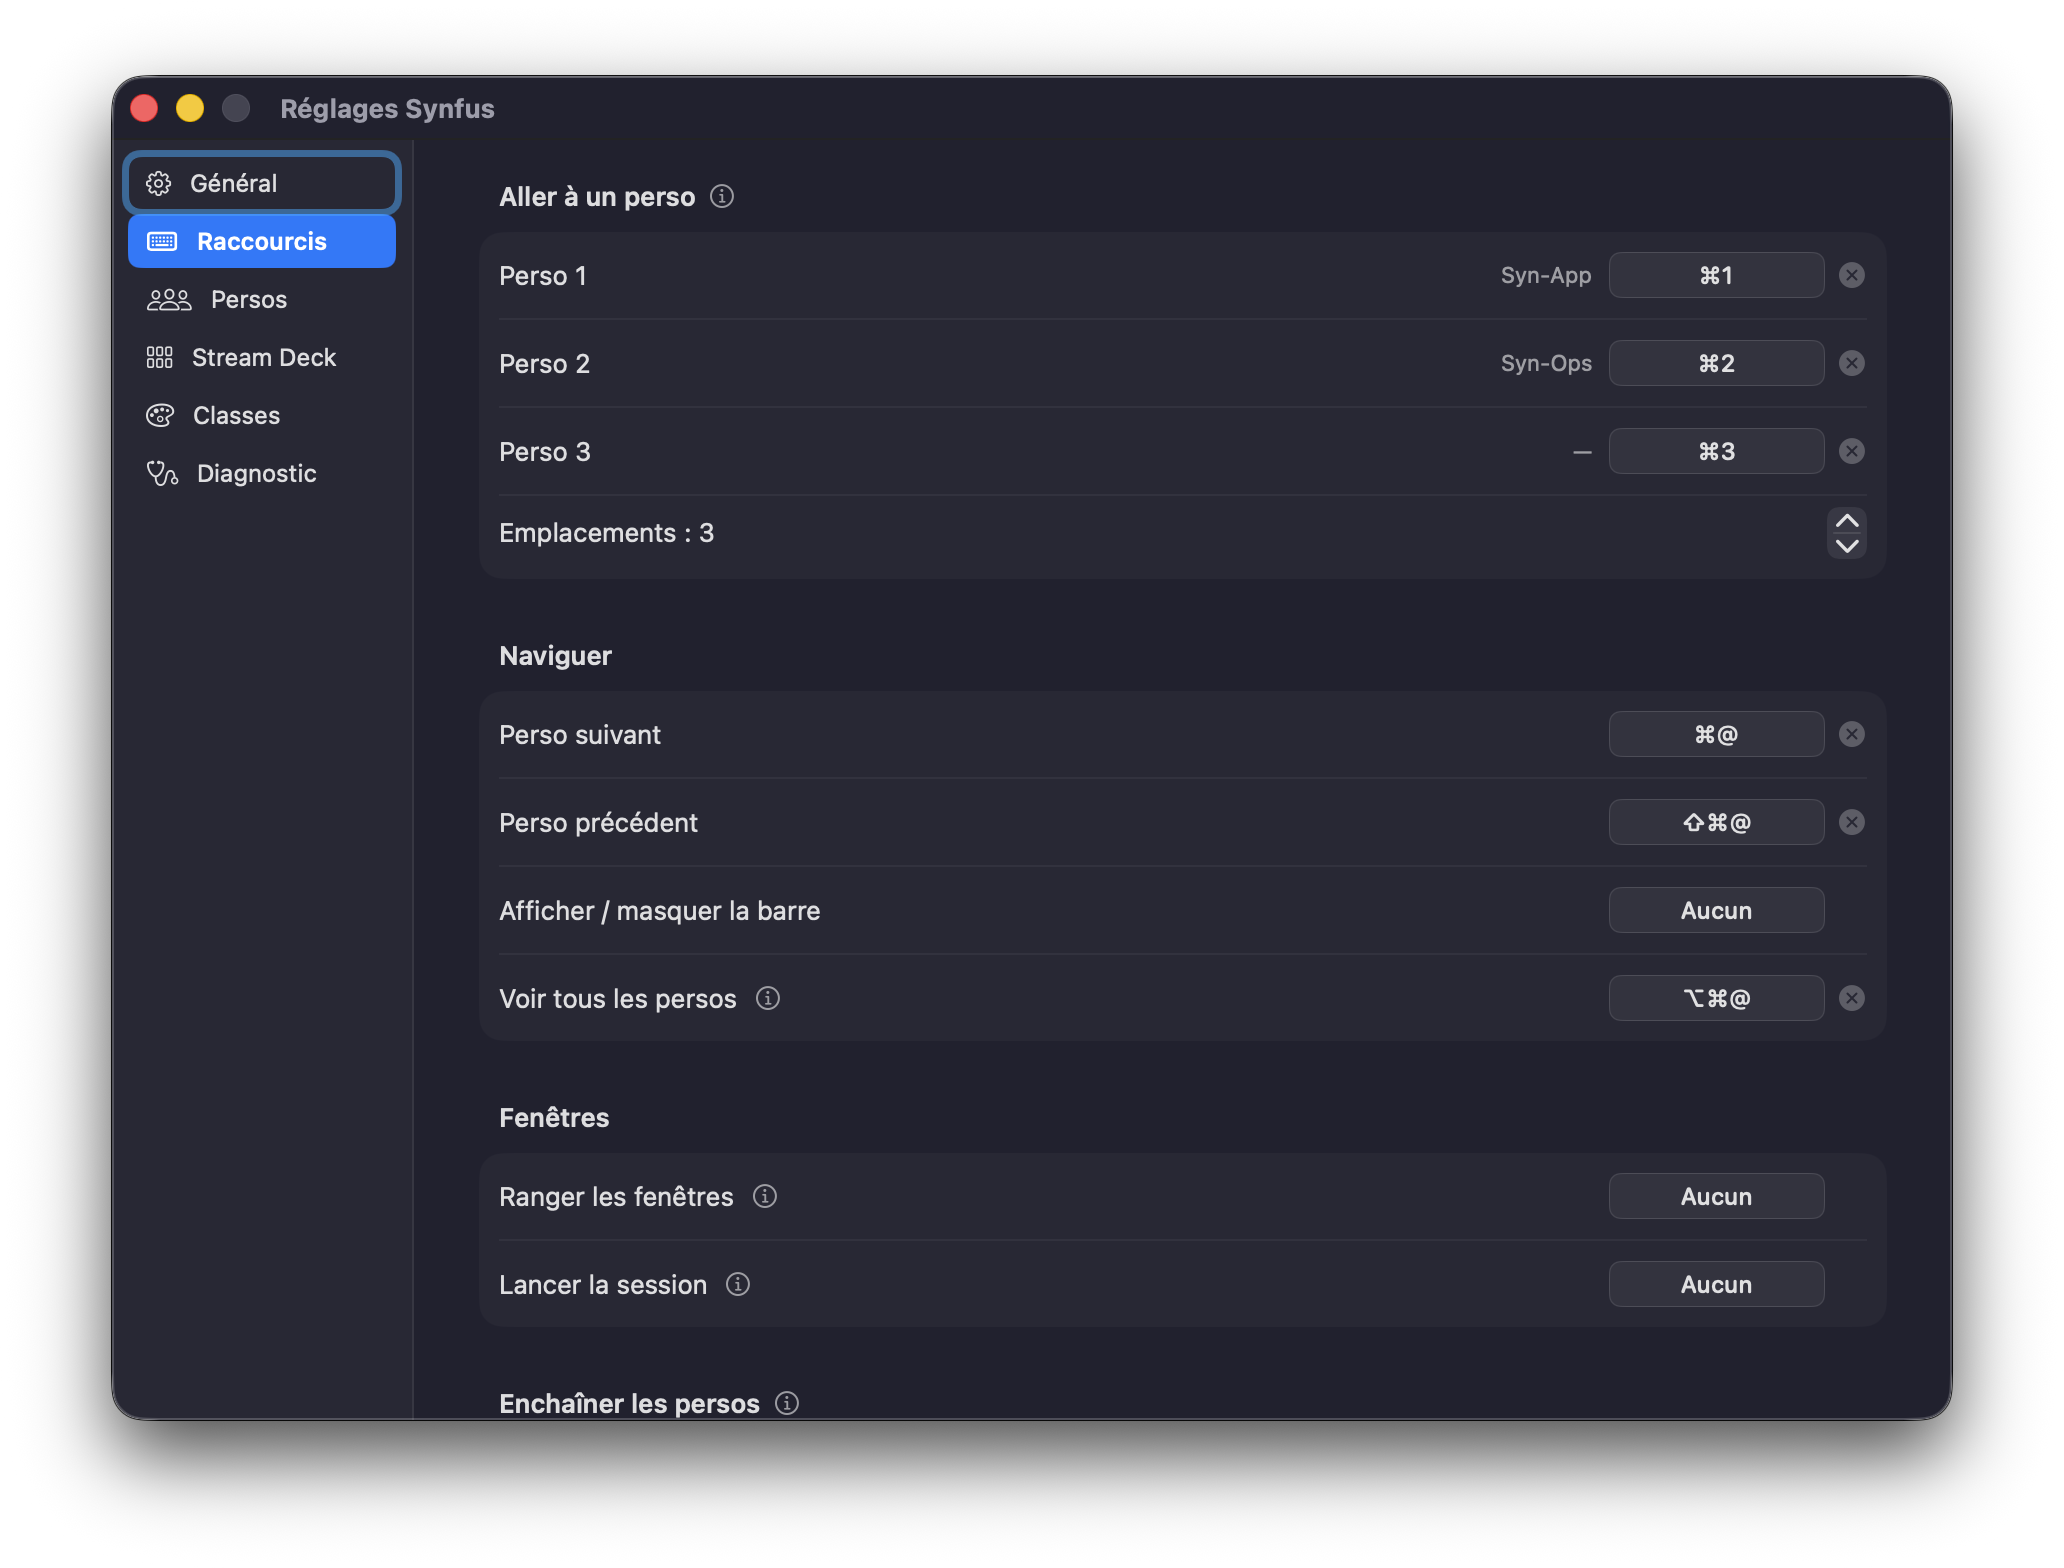
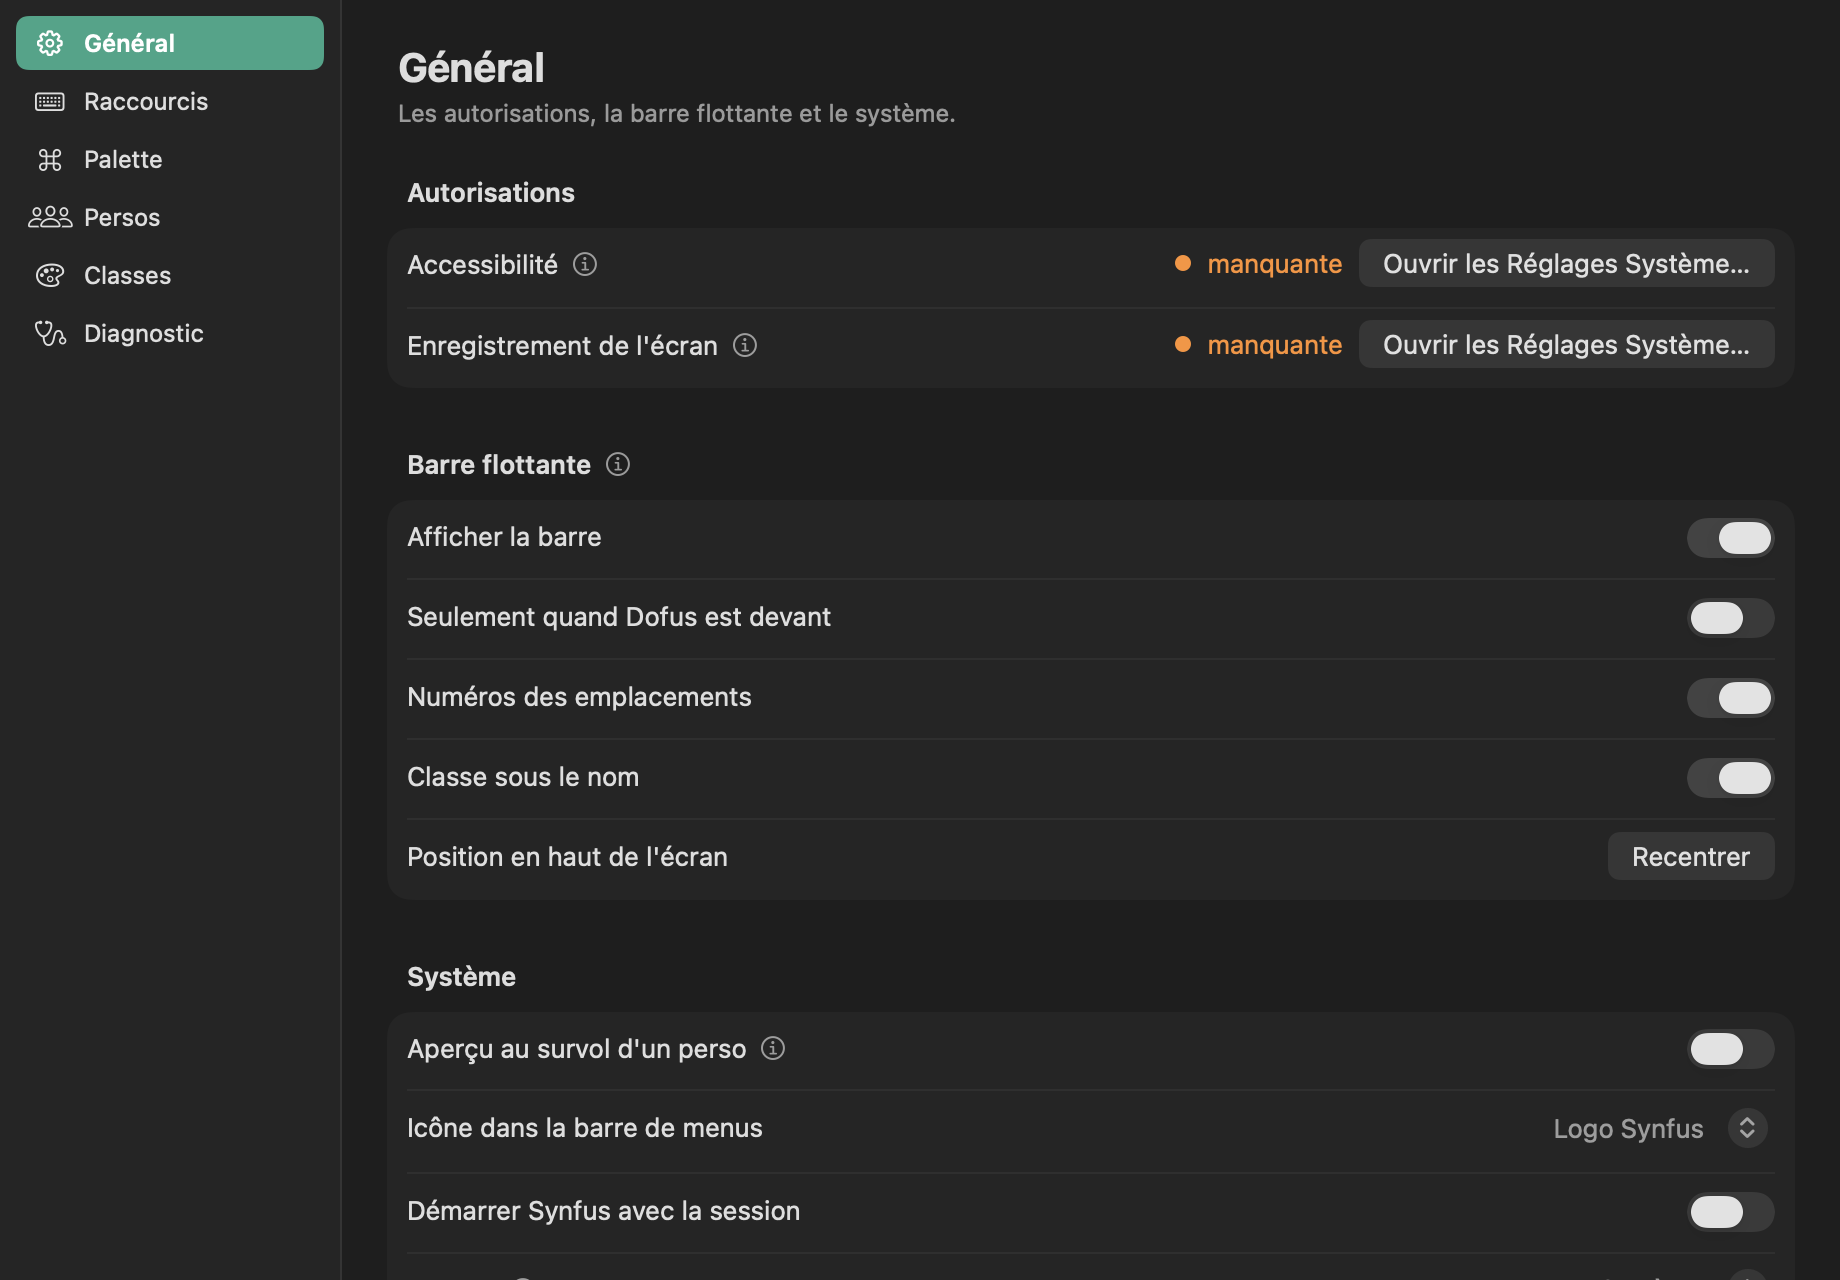
docs: 0.10.0 — palette, lieux, réglages refaits ; captures et README
Notes de version de 0.10.0 dans CHANGELOG.md, illustrées par des
captures rendues hors écran (CapturesTests → docs/screenshots), sans
aucun visuel du jeu. README : la palette, les zaaps, la chasse, ⇧⌘:
pour l'invitation, et le seul accès réseau (l'API de DofusDB).

diff --git a/Tests/SynfusTests/CapturesTests.swift b/Tests/SynfusTests/CapturesTests.swift
@@ -5,7 +5,8 @@ import Testing
 
 /// Les captures de la documentation et des notes de version : les vues de
 /// Synfus rendues hors écran, sur des données d'exemple — jamais un visuel du
-/// jeu. Ignoré sans `SYNFUS_CAPTURES=<dossier>`.
+/// jeu. Ignoré sans `SYNFUS_CAPTURES=<dossier>` ; pour `docs/screenshots` :
+/// `SYNFUS_CAPTURES=$PWD/docs/screenshots sh test.sh CapturesTests`.
 @MainActor
 struct CapturesTests {
     nonisolated private static let dossier = ProcessInfo.processInfo.environment["SYNFUS_CAPTURES"]
@@ -33,8 +34,7 @@ struct CapturesTests {
         let dossier = URL(fileURLWithPath: try #require(Self.dossier), isDirectory: true)
         try FileManager.default.createDirectory(at: dossier, withIntermediateDirectories: true)
         for (nom, requete) in [("palette-zaaps", ""), ("palette-travel", "/travel banque bonta"),
-                               ("palette-fm", "/travel fm"), ("palette-commandes", "/"),
-                               ("palette-variables", "%"), ("palette-tout", "recru")] {
+                               ("palette-commandes", "/")] {
             let modele = PaletteModele(contexte: contexte(), requete: requete)
             let vue = PaletteVue(modele: modele)
                 .padding(24)
@@ -48,11 +48,11 @@ struct CapturesTests {
     func reglages() throws {
         let dossier = URL(fileURLWithPath: try #require(Self.dossier), isDirectory: true)
         try FileManager.default.createDirectory(at: dossier, withIntermediateDirectories: true)
-        for section in SettingsSection.allCases {
+        for (nom, section) in [("reglages", SettingsSection.general), ("reglages-palette", .palette)] {
             let vue = SettingsView(section: section)
                 .background(Color(nsColor: .windowBackgroundColor))
                 .environment(\.colorScheme, .dark)
-            try ecrire(vue, vers: dossier.appending(path: "reglages-\(section.rawValue).png"))
+            try ecrire(vue, vers: dossier.appending(path: nom + ".png"))
         }
     }
 

diff --git a/README.md b/README.md
@@ -12,6 +12,26 @@ connectés et permet de passer de l'un à l'autre, d'un clic ou au clavier.
 
 ## Ce que ça fait
 
+- **La palette (⌘:)** : un champ de recherche au-dessus du jeu, qui prend le
+  clavier sans passer devant Dofus. Tu tapes, Entrée copie, ⌘V colle dans le
+  tchat.
+  - `/zaap bonta` : le zaap par son nom, sa zone ou ton étiquette (« Fri 1 »).
+  - `/travel banque bonta`, `/travel fm`, `/travel hdv conso` : les 834 lieux
+    du jeu (banques, hôtels de vente, ateliers, temples, donjons, transports),
+    le plus proche de toi devant, copiés en `/zaap x,y; /travel a,b` quand
+    le zaap fait gagner du chemin.
+  - `/` les commandes du jeu, `%` les variables du tchat (`%pos%`…), `/invite`
+    l'équipe en une ligne, tes phrases enregistrées (recrutement, demande
+    d'aide…), tes persos et les gestes de Synfus.
+
+  ![La palette](docs/screenshots/palette-zaaps.png)
+  ![/travel banque bonta](docs/screenshots/palette-travel.png)
+
+- **Zaaps** : un `/travel` copié devient `/zaap x,y; /travel a,b` quand un
+  zaap épargne assez de cartes — au raccourci, ou tout seul à chaque copie.
+  Ta position est lue à l'écran.
+- **Chasse au trésor** : départ lu à l'écran, direction aux flèches, indice
+  saisi ou lu ; la carte vient de DofusDB et son `/travel` est copié.
 - **Overlay des personnages** avec leur classe : un clic pour passer sur le
   bon compte.
 - **Raccourcis clavier** : ⌘@ pour le personnage suivant, ⇧⌘@ pour le
@@ -32,9 +52,9 @@ connectés et permet de passer de l'un à l'autre, d'un clic ou au clavier.
   d'un coup. Jusqu'à quatre équipes, composées en glissant une pastille sur
   la seconde rangée de la barre ; l'équipe active restreint la barre, les
   raccourcis et le rangement, « Tous » reste à un clic.
-- **Invitations** : ⌘: copie `/invite Nom` pour le prochain personnage de
-  l'équipe, tu colles dans le tchat (⌘V ↩), et ainsi de suite. Synfus
-  n'envoie rien au jeu — c'est toi qui colles.
+- **Invitations** : ⇧⌘: copie `/invite Nom` pour le prochain personnage de
+  l'équipe — ou toute l'équipe en une ligne —, tu colles dans le tchat (⌘V ↩).
+  Synfus n'envoie rien au jeu — c'est toi qui colles.
 - **Fermeture propre des clients** : certains clients restent bloqués en
   quittant, Synfus s'en occupe.
 - **Aperçu** d'une fenêtre au survol, ou de tous les personnages en maintenant
@@ -49,7 +69,9 @@ connectés et permet de passer de l'un à l'autre, d'un clic ou au clavier.
 ![Les réglages](docs/screenshots/reglages.png)
 
 Synfus ne joue rien à ta place : il n'envoie ni clic ni touche au jeu, il
-change juste la fenêtre qui est devant. Pas de lecture mémoire, pas de réseau.
+change juste la fenêtre qui est devant, et pose du texte dans le presse-papiers.
+Pas de lecture mémoire ; pour le réseau, la seule API publique de DofusDB (la
+carte du jeu et les indices de chasse, rafraîchis tous les 30 jours).
 Il demande l'autorisation **Accessibilité**, et **Enregistrement de l'écran**
 seulement si tu actives les aperçus ou la lecture de l'écran.
 

diff --git a/CHANGELOG.md b/CHANGELOG.md
@@ -3,6 +3,52 @@
 Une section par version, `## X.Y.Z — AAAA-MM-JJ` : la release GitHub de `vX.Y.Z` en reprend le
 contenu (`Tools/notes-de-version.sh`), et `sh build.sh --publish` refuse une version absente d'ici.
 
+## 0.10.0 — 2026-10-08
+
+![La palette](https://raw.githubusercontent.com/Synseria/Synfus/v0.10.0/docs/screenshots/palette-zaaps.png)
+
+### Nouveautés
+
+- **La palette (⌘:)** : un champ de recherche au-dessus du jeu, qui prend le clavier sans passer
+  devant Dofus. Tu tapes, Entrée copie, ⌘V colle dans le tchat — Synfus n'envoie toujours rien.
+  Rien de tapé : les zaaps en cartes, favoris d'abord puis du plus proche, et tes dernières copies.
+- **`/zaap bonta`** : un zaap par son nom, sa **zone** (Cœur immaculé → Bonta) ou ton
+  **étiquette** libre (« Fri 1 », « Bouftou »), posée d'un Tab ou d'un clic droit.
+- **`/travel banque bonta`** : les **834 lieux** du jeu — banques, hôtels de vente, ateliers,
+  temples, donjons, transports — avec les surnoms des joueurs (`fm`, `hdv conso`, `bijou`…). Le
+  plus proche de toi passe devant, et le trajet est copié en `/zaap x,y; /travel a,b` quand le
+  zaap fait gagner du chemin.
+
+  ![/travel banque bonta](https://raw.githubusercontent.com/Synseria/Synfus/v0.10.0/docs/screenshots/palette-travel.png)
+
+- **`/`** : les commandes du jeu (`/w`, `/g`, `/p`, `/whois`, `/away`…), une commande à argument
+  se complète. **`%`** : les variables du tchat (`%pos%`, `%zone%`, `%souszone%`…).
+
+  ![Les commandes](https://raw.githubusercontent.com/Synseria/Synfus/v0.10.0/docs/screenshots/palette-commandes.png)
+
+- **Phrases enregistrées** : recrutement, demande d'aide… retrouvées par leur nom, copiées d'un
+  geste (*Réglages → Palette*).
+- **Tout Synfus au clavier** : tape un perso pour y aller, « ranger », « session », « équipe
+  suivante », « chasse »… et Entrée.
+- **`/invite`** : toute l'équipe en une ligne, ou un perso.
+
+### Améliorations
+
+- **Réglages refaits** : une seule grille (libellé à gauche, réglage à droite), des libellés
+  harmonisés, un onglet **Palette** qui réunit zaaps (en cartes, étiquettes, favoris), lieux
+  étiquetés, phrases, réécriture du `/travel`, chasse et carte du jeu.
+
+  ![L'onglet Palette](https://raw.githubusercontent.com/Synseria/Synfus/v0.10.0/docs/screenshots/reglages-palette.png)
+
+- **Une seule carte du jeu** : zaaps et lieux viennent d'une même liste DofusDB, intégrée à
+  Synfus et rafraîchie tous les 30 jours.
+- Le bouton Zaap de la barre ouvre la palette.
+
+### Changé
+
+- **⌘: ouvre la palette** ; l'invitation passe à **⇧⌘:** (si tu l'avais changée, elle ne bouge
+  pas).
+
 ## 0.9.0 — 2026-10-07
 
 ### Nouveautés
